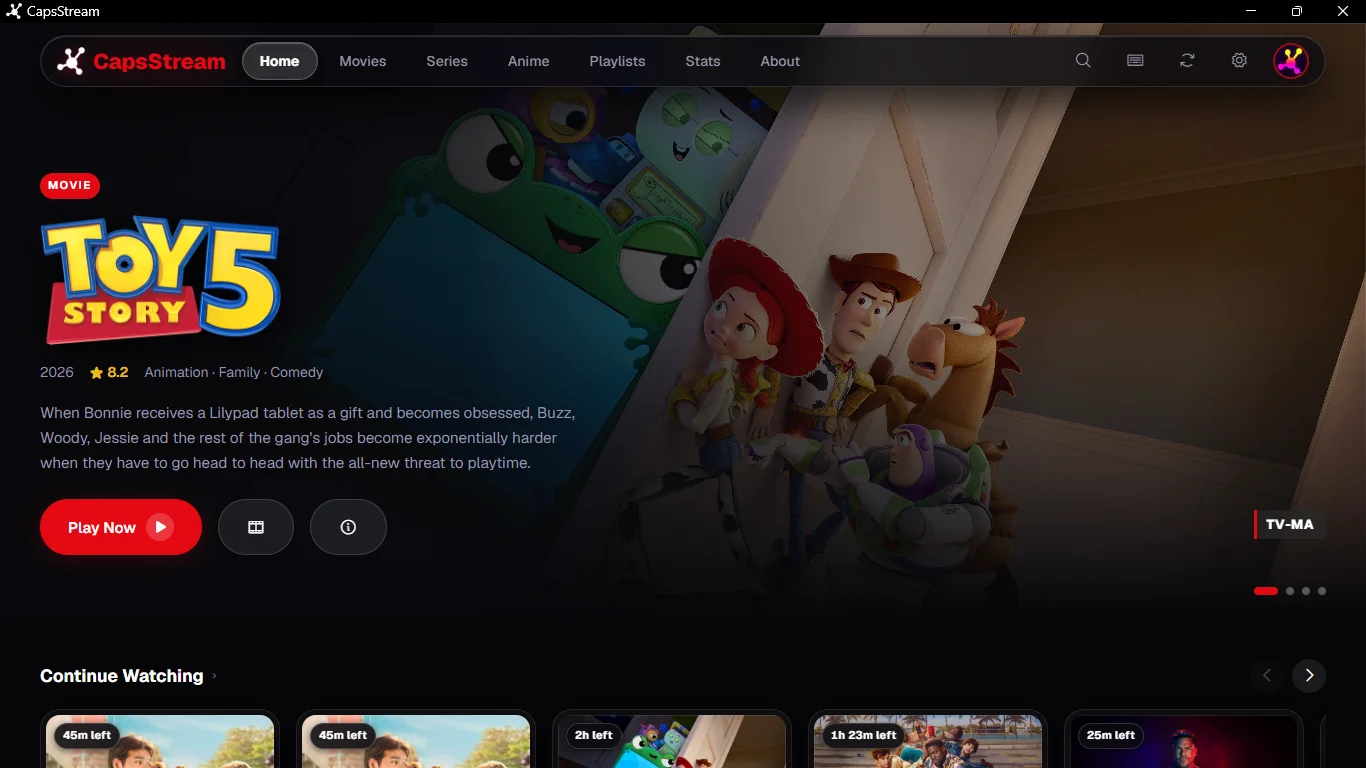
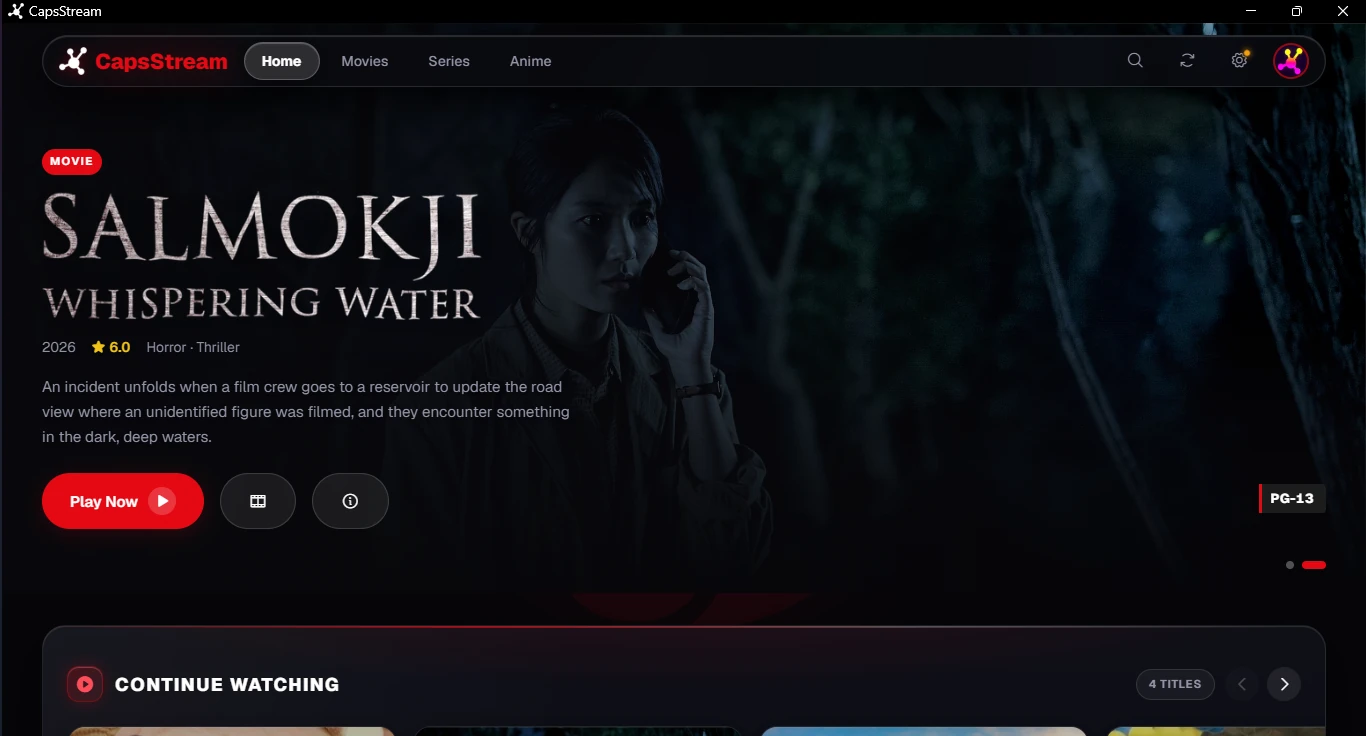
feat(portfolio): hide active focus section and update CapsStream preview images
## Summary
Updated CapsStream project previews with fresh high-resolution screenshots and hid the Active Focus (Currently Exploring) section and its navigation links across the application.

## Added
- Fresh high-resolution WebP screenshots for CapsStream (home dashboard, movie catalog, details view, player, achievements, and watch stats)

## Changed
- Adjusted Contact section background to seamlessly continue the alternating section background gradient directly after GitHub Stats

## Removed
- Removed the Active Focus (Currently Exploring) section from the homepage layout
- Removed Exploring link from the main navigation bar and active scroll spy tracking
- Removed Currently Exploring navigation action from the command palette

diff --git a/src/app/page.tsx b/src/app/page.tsx
@@ -9,7 +9,6 @@ import { Projects } from "@/components/sections/Projects";
 import { GitHubStatsSection } from "@/components/sections/GitHubStats";
 import { Timeline } from "@/components/sections/Timeline";
 import { Contact } from "@/components/sections/Contact";
-import { CurrentlyExploring } from "@/components/sections/CurrentlyExploring";
 import { SectionDivider } from "@/components/ui/SectionDivider";
 import { fetchGitHubStats } from "@/lib/github";
 
@@ -36,9 +35,8 @@ export default async function HomePage() {
       <SectionDivider flip />
       <GitHubStatsSection stats={githubStats} />
       <SectionDivider flip />
-      <CurrentlyExploring />
-      <SectionDivider />
       <Contact />
     </>
   );
 }
+

diff --git a/src/components/ui/CommandPalette.tsx b/src/components/ui/CommandPalette.tsx
@@ -16,7 +16,6 @@ import {
   Clock,
   GraduationCap,
   Award,
-  Sparkles,
 } from "lucide-react";
 import { Github } from "@/components/ui/Icons";
 import { useTheme } from "next-themes";
@@ -126,14 +125,6 @@ export function CommandPalette({ isOpen, onClose }: CommandPaletteProps) {
       category: "Navigation",
       icon: <Github size={16} />,
       action: () => scrollTo("github"),
-    },
-    {
-      id: "exploring",
-      label: "Currently Exploring",
-      description: "Building with AI & multi-model workflow",
-      category: "Navigation",
-      icon: <Sparkles size={16} />,
-      action: () => scrollTo("exploring"),
     },
     {
       id: "contact",

diff --git a/src/components/layout/Navbar.tsx b/src/components/layout/Navbar.tsx
@@ -13,7 +13,7 @@ import { cn } from "@/lib/utils";
 import { NAV_LINKS } from "@/data/portfolio";
 
 const basePath = process.env.NEXT_PUBLIC_BASE_PATH ?? "";
-const SECTION_IDS = ["about", "skills", "projects", "experience", "education", "certifications", "timeline", "github", "exploring", "contact"];
+const SECTION_IDS = ["about", "skills", "projects", "experience", "education", "certifications", "timeline", "github", "contact"];
 
 export function Navbar() {
   const [isScrolled, setIsScrolled] = useState(false);

diff --git a/src/components/sections/Contact.tsx b/src/components/sections/Contact.tsx
@@ -67,7 +67,7 @@ export function Contact() {
   ];
 
   return (
-    <section id="contact" className="section bg-[var(--color-bg-secondary)]" aria-labelledby="contact-heading">
+    <section id="contact" className="section bg-[var(--color-bg)]" aria-labelledby="contact-heading">
       <div className="container">
         <ScrollAnimation className="flex flex-col gap-3 mb-12">
           <SectionLabel>Contact</SectionLabel>

diff --git a/src/data/portfolio.ts b/src/data/portfolio.ts
@@ -16,7 +16,6 @@ export const NAV_LINKS: NavLink[] = [
   { label: "Projects", href: "#projects" },
   { label: "Experience", href: "#experience" },
   { label: "GitHub", href: "#github" },
-  { label: "Exploring", href: "#exploring" },
   { label: "Contact", href: "#contact" },
 ];
 
